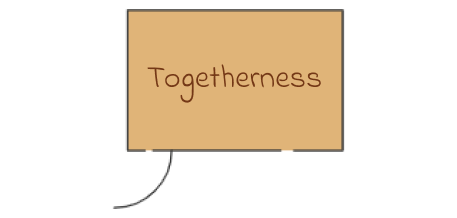
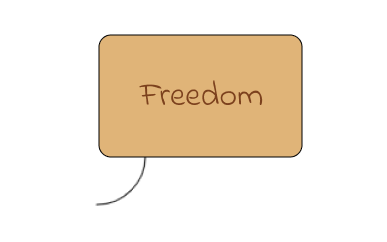
updated speech bubbles

Changed region(s): [[0.2481, 0.0275, 0.8062, 0.9633], [0.3101, 0.3028, 0.7132, 0.4679], [0.2481, 0.8257, 0.3101, 0.8532]]

diff --git a/static_main/custom.css b/static_main/custom.css
@@ -1154,6 +1154,9 @@ canvas {
     .acquaintance__title-logo {
         margin-top: 4rem;
     }
+    .mission__animation-text-block, .mission__animation-text-images {
+        top: 10px;
+    }
 }
 
 @media screen and (max-width: 1600px) {
@@ -1199,6 +1202,9 @@ canvas {
 
     .acquaintance__title-logo {
         margin-top: 8rem;
+    }
+    .mission__animation-text-block, .mission__animation-text-images {
+        top: 0px;
     }
 }
 
@@ -1264,6 +1270,11 @@ canvas {
     .custom-svg-container {
         width: 53%;
 
+    }
+    .mission.shown-in .mission__animation-text-images picture:nth-child(3) img {
+        -webkit-transform: translate(-5.5rem,-39px);
+        -ms-transform: translate(-5.5rem,-39px);
+        transform: translate(-5.5rem,-39px);
     }
 }
 
@@ -1436,6 +1447,28 @@ canvas {
     .card-animation__folder {
         width: 19.4375rem;
         height: 15rem;
+    }
+    .mission__animation-text-images picture:nth-child(3) img {
+        
+        width: auto;
+        height: 6.125rem;
+    }
+    .mission.shown-in .mission__animation-text-images picture:nth-child(3) img {
+        -webkit-transform: translate(1.5rem,-20px);
+        -ms-transform: translate(1.5rem,-20px);
+        transform: translate(1.5rem,-20px);
+    }
+    .mission__animation-text-images picture:nth-child(2) img {
+        bottom: 10.3125rem;
+        left: 5.0625rem;
+        width: auto;
+        height: 8rem;
+    }
+    .mission__animation-text-images picture:nth-child(1) img {
+        bottom: 22.9375rem;
+        left: 5.1875rem;
+        width: auto;
+        height: 5.5rem;
     }
 }
 

diff --git a/static_main/style.min(1).css b/static_main/style.min(1).css
@@ -5726,14 +5726,14 @@ button {
     z-index: 1;
     bottom: 233px;
     width: 22.25rem;
-    height: 13.125rem
+    height: 18.125rem;
 }
 
 .mission__animation-text-images picture:nth-child(3) img {
     right: calc(50% - 550px);
     bottom: 420px;
     width: 18.125rem;
-    height: 12.25rem
+    height: 17rem;
 }
 .mission__animation-text-images picture:nth-child(4) img {
     right: calc(50% - 550px);
@@ -9124,10 +9124,9 @@ screen and (min-width:0\0) {
         right: 6.5rem;
         bottom: 2.6875rem
     }
-
     .mission__animation-text-images picture:nth-child(1) img {
-        bottom: 33.1875rem;
-        left: 29.5rem
+        bottom: 36.1875rem;
+        left: 27.5rem;
     }
 
     .mission__animation-text-images picture:nth-child(2) img {
@@ -10504,22 +10503,23 @@ screen and (min-width:0\0) {
     .mission__animation-text-images picture:nth-child(1) img {
         bottom: 513px;
         left: 226px;
-        width: 171px;
-        height: 110px
+        width: auto;
+        height: 167px;
+    
     }
 
     .mission__animation-text-images picture:nth-child(2) img {
         bottom: 297px;
         left: 127px;
-        width: 254px;
-        height: 150px
+        width: auto;
+        height: 210px;
     }
 
     .mission__animation-text-images picture:nth-child(3) img {
         right: 116px;
         bottom: 387px;
-        width: 207px;
-        height: 140px
+        width: auto;
+        height: 200px
     }
     .mission__animation-text-images picture:nth-child(4) img {
         right: 116px;

diff --git a/index.html b/index.html
@@ -1763,7 +1763,7 @@
                 </picture>
                 <picture>
 
-                  <img src="./static_main/speech-bubble-2.png" width="356" height="211" alt="Img">
+                  <img src="./static_main/speech-bubble-2.png" width="" height="300" alt="Img">
                 </picture>
                 <picture>
 
